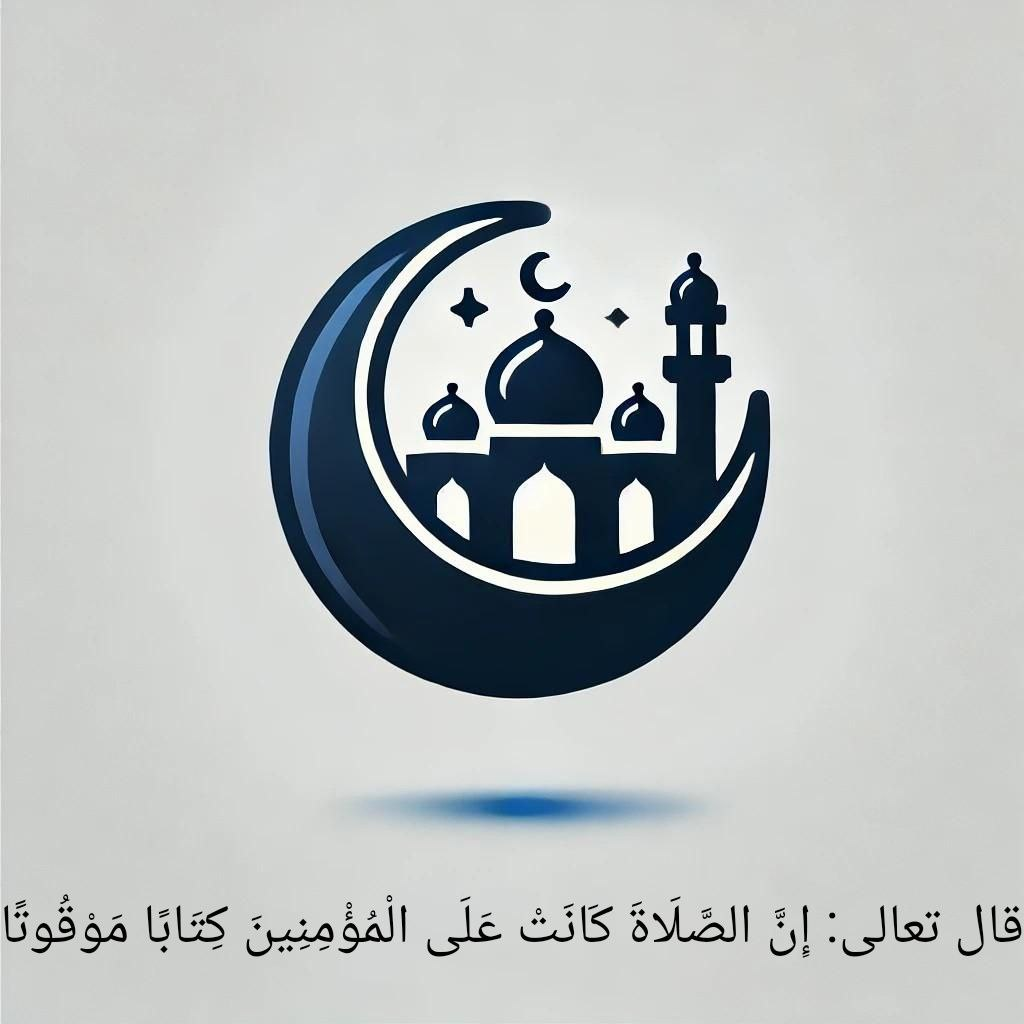
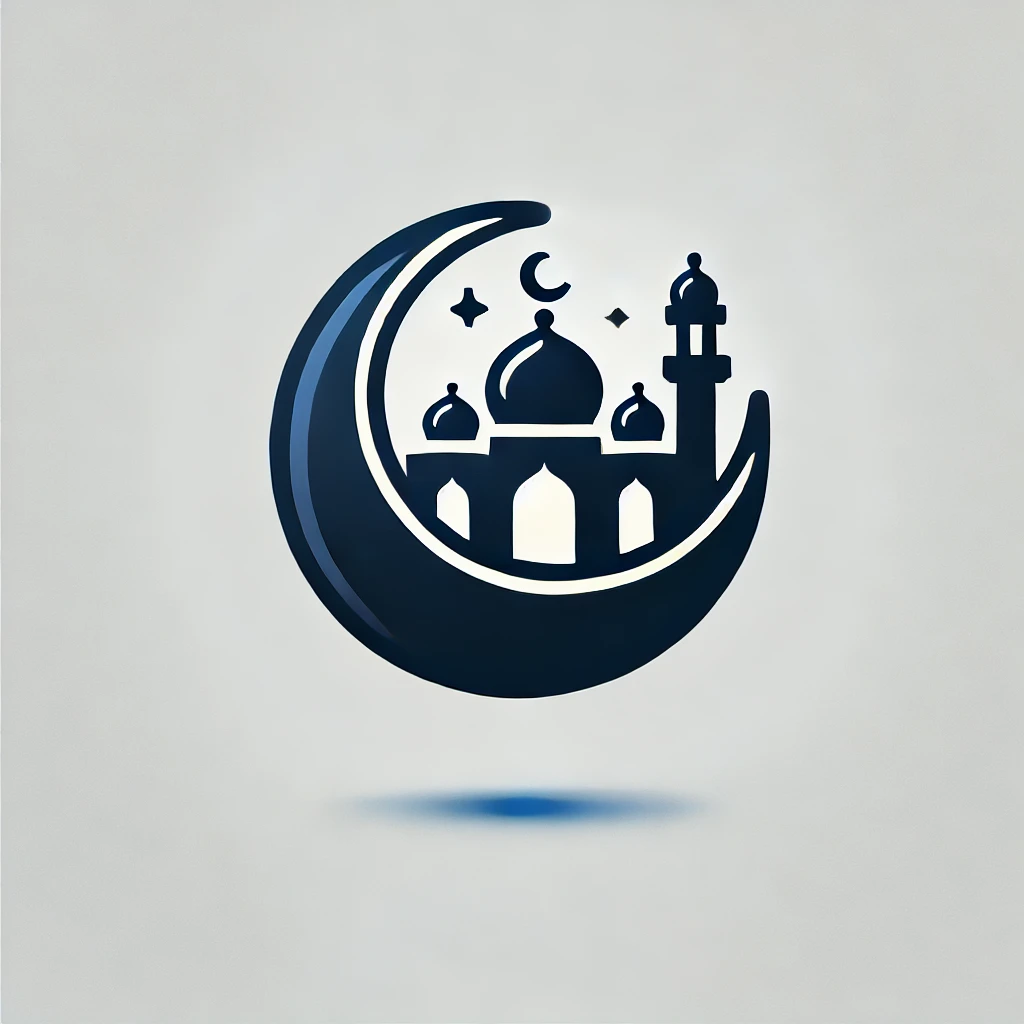
create PrayerTimesService and add dio package

diff --git a/lib/widgits/quranic_verse.dart b/lib/widgits/quranic_verse.dart
@@ -14,27 +14,27 @@ class QuranicVerse extends StatelessWidget {
           children: [
             Text(
               "﴾",
-              style: TextStyle(fontSize: 20), // حجم الخط للقوس
+              style: TextStyle(fontSize: 14), // حجم الخط للقوس
             ),
             SizedBox(width: 4), // مسافة بين القوس والنص
             Text(
               "إِنَّ الصَّلَاةَ كَانَتْ عَلَى الْمُؤْمِنِينَ كِتَابًا مَوْقُوتًا",
-              style: TextStyle(fontSize: 18), // حجم الخط للنص
+              style: TextStyle(fontSize: 15), // حجم الخط للنص
             ),
             SizedBox(width: 4), // مسافة بين النص والقوس الآخر
             Text(
               "﴿",
-              style: TextStyle(fontSize: 20), // حجم الخط للقوس الآخر
+              style: TextStyle(fontSize: 15), // حجم الخط للقوس الآخر
             ),
             SizedBox(width: 2),
             Text(
               ":",
-              style: TextStyle(fontSize: 18), // حجم الخط لكلمة "قال تعالى"
+              style: TextStyle(fontSize: 15), // حجم الخط لكلمة "قال تعالى"
             ),
             SizedBox(width: 2), // مسافة بين الآية وكلمة "قال تعالى"
             Text(
               "قال تعالى",
-              style: TextStyle(fontSize: 18), // حجم الخط لكلمة "قال تعالى"
+              style: TextStyle(fontSize: 15), // حجم الخط لكلمة "قال تعالى"
             ),
           ],
         ),

diff --git a/lib/services/prayer_times_service.dart b/lib/services/prayer_times_service.dart
@@ -1,0 +1,39 @@
+import 'package:dio/dio.dart';
+
+class PrayerTimesService {
+  final Dio _dio = Dio();
+
+  Future<List<Map<String, String>>> fetchPrayerTimes() async {
+    final String url =
+        'https://api.aladhan.com/v1/timings/16-11-2024'; // رابط API
+    final Map<String, dynamic> queryParameters = {
+      'latitude': 31.2156, // خط العرض
+      'longitude': 29.9553, // خط الطول
+      'method': 5, // الطريقة الحسابية (Egyptian General Authority)
+    };
+
+    try {
+      final response = await _dio.get(url, queryParameters: queryParameters);
+
+      if (response.statusCode == 200) {
+        final data = response.data['data']['timings'];
+        return [
+          {"time": data['Fajr'], "prayerName": "الفجر"},
+          {"time": data['Sunrise'], "prayerName": "الشروق"},
+          {"time": data['Dhuhr'], "prayerName": "الظهر"},
+          {"time": data['Asr'], "prayerName": "العصر"},
+          {"time": data['Maghrib'], "prayerName": "المغرب"},
+          {"time": data['Isha'], "prayerName": "العشاء"},
+        ];
+      } else {
+        throw Exception('Failed to fetch prayer times');
+      }
+    } on DioError catch (e) {
+      if (e.response != null) {
+        throw Exception('Error: ${e.response?.statusCode}, ${e.response?.data}');
+      } else {
+        throw Exception('Error: ${e.message}');
+      }
+    }
+  }
+}

diff --git a/web/index.html b/web/index.html
@@ -46,6 +46,8 @@
   
   
   
+  
+  
   <style id="splash-screen-style">
     html {
       height: 100%
@@ -54,7 +56,7 @@
     body {
       margin: 0;
       min-height: 100%;
-      background-color: #FFFFFF;
+      background-color: #CCCECB;
           background-size: 100% 100%;
     }
 
@@ -118,6 +120,7 @@
       <source srcset="splash/img/dark-1x.png 1x, splash/img/dark-2x.png 2x, splash/img/dark-3x.png 3x, splash/img/dark-4x.png 4x" media="(prefers-color-scheme: dark)">
       <img class="center" aria-hidden="true" src="splash/img/light-1x.png" alt="">
   </picture>
+  
   
   
   

diff --git a/lib/screens/homescreen.dart b/lib/screens/homescreen.dart
@@ -15,7 +15,7 @@ class Homescreen extends StatelessWidget {
     return const Scaffold(
       appBar: CustomAppBar(),
       body: Padding(
-        padding: EdgeInsets.only(right: 16, left: 16, top: 28, bottom: 19),
+        padding: EdgeInsets.only(right: 16, left: 16, top: 28, bottom: 18),
         child: Column(
           children: [
             Expanded(  // استخدام Expanded لتوزيع المحتوى بشكل متوازن
